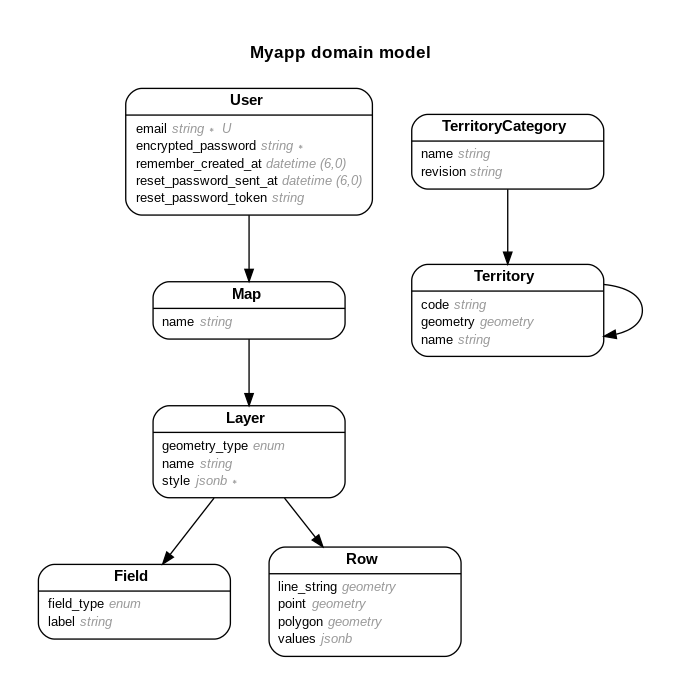
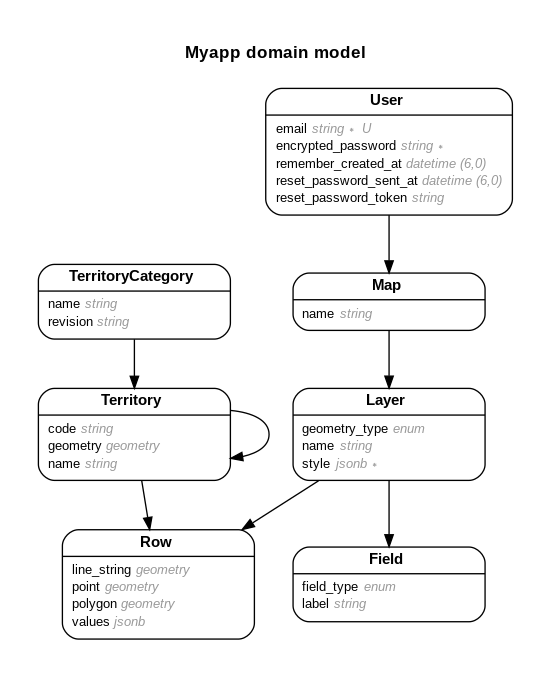
Territories: migration to add a row->territory_id reference

diff --git a/db/schema.rb b/db/schema.rb
@@ -10,7 +10,7 @@
 #
 # It's strongly recommended that you check this file into your version control system.
 
-ActiveRecord::Schema[7.0].define(version: 2022_07_05_135004) do
+ActiveRecord::Schema[7.0].define(version: 2022_07_06_135320) do
   # These are extensions that must be enabled in order to support this database
   enable_extension "pg_trgm"
   enable_extension "pgcrypto"
@@ -30,6 +30,7 @@ ActiveRecord::Schema[7.0].define(version: 2022_07_05_135004) do
     "point",
     "line_string",
     "polygon",
+    "territory",
   ], force: :cascade
 
   create_table "fields", id: :uuid, default: -> { "gen_random_uuid()" }, force: :cascade do |t|
@@ -67,7 +68,9 @@ ActiveRecord::Schema[7.0].define(version: 2022_07_05_135004) do
     t.datetime "updated_at", default: -> { "CURRENT_TIMESTAMP" }, null: false
     t.geometry "polygon", limit: {:srid=>4326, :type=>"st_polygon"}
     t.geometry "line_string", limit: {:srid=>4326, :type=>"line_string"}
+    t.uuid "territory_id"
     t.index ["layer_id"], name: "index_rows_on_layer_id"
+    t.index ["territory_id"], name: "index_rows_on_territory_id"
   end
 
   create_table "territories", id: :uuid, default: -> { "gen_random_uuid()" }, force: :cascade do |t|
@@ -107,6 +110,7 @@ ActiveRecord::Schema[7.0].define(version: 2022_07_05_135004) do
   add_foreign_key "fields", "layers"
   add_foreign_key "layers", "maps"
   add_foreign_key "maps", "users"
+  add_foreign_key "rows", "territories"
   add_foreign_key "territories", "territories", column: "parent_id"
   add_foreign_key "territories", "territory_categories"
 end

diff --git a/app/models/row.rb b/app/models/row.rb
@@ -2,21 +2,29 @@
 #
 # Table name: rows
 #
-#  id          :uuid             not null, primary key
-#  line_string :geometry         linestring, 4326
-#  point       :geometry         point, 4326
-#  polygon     :geometry         polygon, 4326
-#  values      :jsonb            not null
-#  created_at  :datetime         not null
-#  updated_at  :datetime         not null
-#  layer_id    :uuid
+#  id           :uuid             not null, primary key
+#  line_string  :geometry         linestring, 4326
+#  point        :geometry         point, 4326
+#  polygon      :geometry         polygon, 4326
+#  values       :jsonb            not null
+#  created_at   :datetime         not null
+#  updated_at   :datetime         not null
+#  layer_id     :uuid
+#  territory_id :uuid
 #
 # Indexes
 #
-#  index_rows_on_layer_id  (layer_id)
+#  index_rows_on_layer_id      (layer_id)
+#  index_rows_on_territory_id  (territory_id)
+#
+# Foreign Keys
+#
+#  fk_rails_...  (territory_id => territories.id)
 #
 class Row < ApplicationRecord
   belongs_to :layer
+  belongs_to :territory, optional: true
+
   after_update_commit -> do
     broadcast_replace_to layer, partial: "rows/row_rw", locals: {row: self}
     broadcast_replace_to "#{layer.id}_ro", partial: "rows/row_ro", locals: {row: self}

diff --git a/test/models/row_test.rb b/test/models/row_test.rb
@@ -2,18 +2,24 @@
 #
 # Table name: rows
 #
-#  id          :uuid             not null, primary key
-#  line_string :geometry         linestring, 4326
-#  point       :geometry         point, 4326
-#  polygon     :geometry         polygon, 4326
-#  values      :jsonb            not null
-#  created_at  :datetime         not null
-#  updated_at  :datetime         not null
-#  layer_id    :uuid
+#  id           :uuid             not null, primary key
+#  line_string  :geometry         linestring, 4326
+#  point        :geometry         point, 4326
+#  polygon      :geometry         polygon, 4326
+#  values       :jsonb            not null
+#  created_at   :datetime         not null
+#  updated_at   :datetime         not null
+#  layer_id     :uuid
+#  territory_id :uuid
 #
 # Indexes
 #
-#  index_rows_on_layer_id  (layer_id)
+#  index_rows_on_layer_id      (layer_id)
+#  index_rows_on_territory_id  (territory_id)
+#
+# Foreign Keys
+#
+#  fk_rails_...  (territory_id => territories.id)
 #
 require "test_helper"
 

diff --git a/db/migrate/20220706135320_add_territory_to_rows.rb b/db/migrate/20220706135320_add_territory_to_rows.rb
@@ -1,0 +1,5 @@
+class AddTerritoryToRows < ActiveRecord::Migration[7.0]
+  def change
+    add_reference :rows, :territory, foreign_key: true, type: :uuid
+  end
+end
